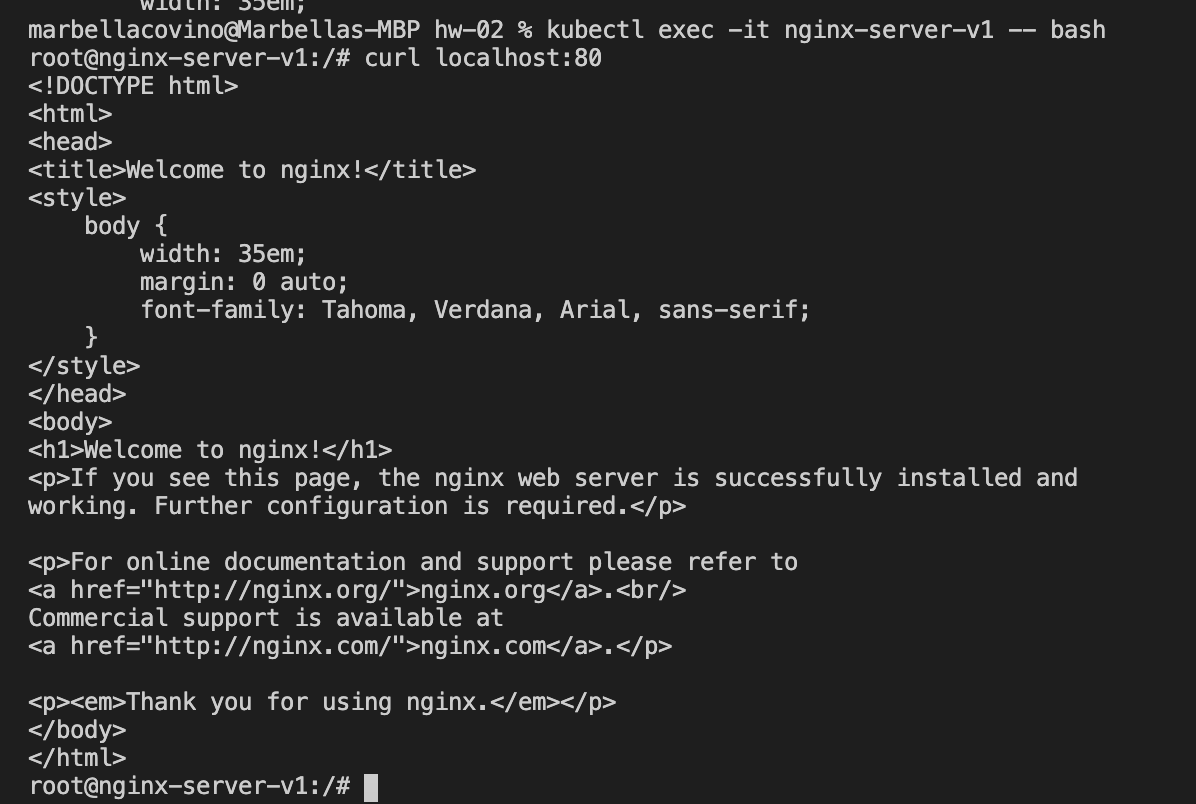
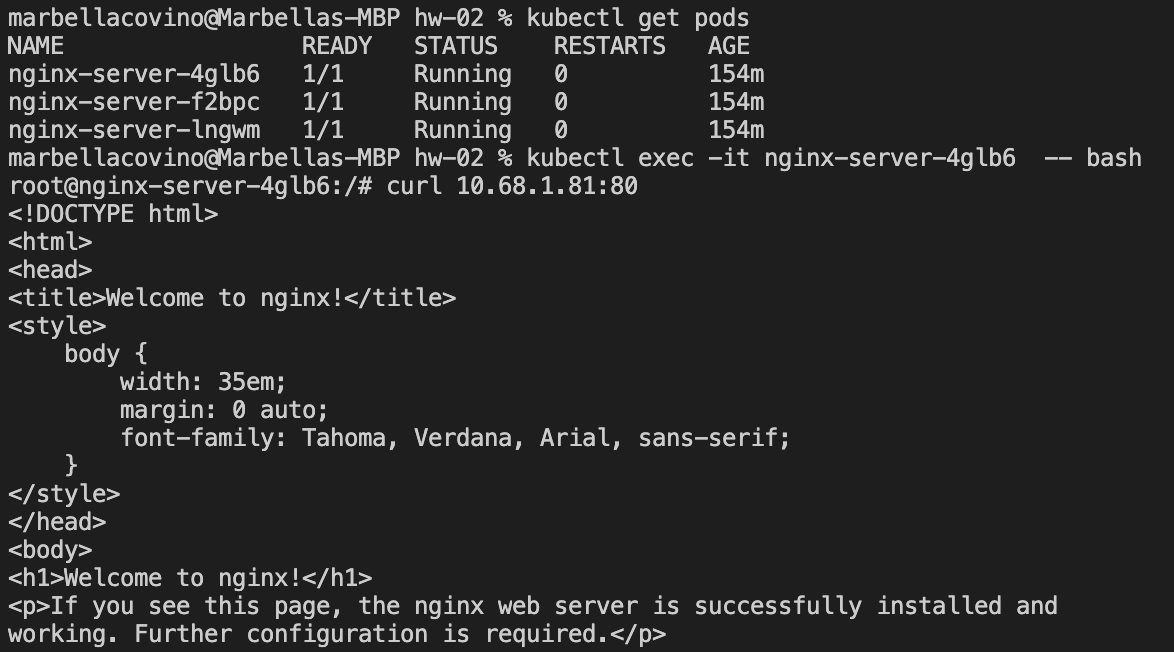
exercise3

Changed region(s): [[0.0, 0.0, 0.9199, 1.0], [0.8893, 0.2147, 0.9813, 0.2761], [0.8586, 0.0307, 0.9199, 0.0613]]

diff --git a/hw-02/answer_exercise_3/answer_exercise_3.md b/hw-02/answer_exercise_3/answer_exercise_3.md
@@ -18,17 +18,18 @@ Configuramos nuestro yaml como se muestra a continuación:
 **service1.yaml**
 
 ```yaml
-apiVersion: networking.k8s.io/v1
-kind: LoadBalancer
+apiVersion: v1
+kind: Service
 metadata:
   name: nginx-lb
 spec:
+  type: LoadBalancer
   selector:
     app: nginx-server
   ports:
-    - port: 8765
-      targetPort: 80
-  type: LoadBalancer
+  - protocol: TCP
+    port: 80
+    targetPort: 80
 ```
 ```sh
 
@@ -40,6 +41,11 @@ $ kubectl get services
 
 ![Alt text](https://github.com/marbellacovino/kube-exercises/blob/main/hw-02/images/service1.0.png  "Load Balancer Service")
 
+Use the external IP address (LoadBalancer Ingress) to access the Hello World application:
+
+curl http://<external-ip>:<port>
+where <external-ip> is the external IP address (LoadBalancer Ingress) of your Service, and <port> is the value of Port in your Service description. If you are using minikube, typing minikube service my-service will automatically open the Hello World application in a browser.
+
 **2. De forma interna, sin acceso desde el exterior (crea service2.yaml)**
 
 Para esto debemos crear un servicio de tipo ClusterIP
@@ -49,15 +55,19 @@ Configuramos nuestro yaml como se muestra a continuación:
 **service2.yaml**
 
 ```yaml
+apiVersion: v1
 kind: Service
 metadata:
-  name: nginx-server
+  name: nginx
+  labels:
+    app: nginx-server
+    tier: backend
 spec:
   selector:
-    app: nginx-server
+    tier: backend
   ports:
     - protocol: TCP
-      port: 80 
+      port: 80
 ```
 
 Esta especificación creará un servicio con target al puerto TCP 80 en cualquier Pod con la etiqueta app: nginx-server
@@ -73,22 +83,27 @@ $ kubectl get services
 
 ```sh
 
-$ kubectl describe service nginx-server
+$ kubectl describe service nginx
 
 ```
 
 ![Alt text](https://github.com/marbellacovino/kube-exercises/blob/main/hw-02/images/services2.1.png  "ClusterIP Service")
 
-Para verificar que mi servicio funciona correctamente, podemos hacer un curl localhost:80 dentro del cluster
+Crear firewall rule
+gcloud compute firewall-rules create test-node-port --allow tcp:node-port
+
+Para verificar que mi servicio funciona correctamente..
+You should now be able to curl the nginx Service on <CLUSTER-IP>:<PORT> from any node in your cluster
 
 ```sh
+$ kubectl get pods 
 
-$ kubectl exec -it nginx-server-v1 -- bash
+$ kubectl exec -it <podName> -- bash
 
 ```
 ```sh
 
-root@nginx-server-v1:/# curl localhost:80
+root@nginx-server-v1:/# curl 10.68.1.81:80
 
 ```
 

diff --git a/hw-02/answer_exercise_2/answer_exercise_2.md b/hw-02/answer_exercise_2/answer_exercise_2.md
@@ -33,6 +33,8 @@ spec:
       containers:
       - name: nginx-server
         image: nginx:1.19.4
+        ports:
+        - containerPort: 80
 ```
 Ahora creamos el ReplicaSet a partir de nuestro archivo de configuración replicaset.yaml:
 
